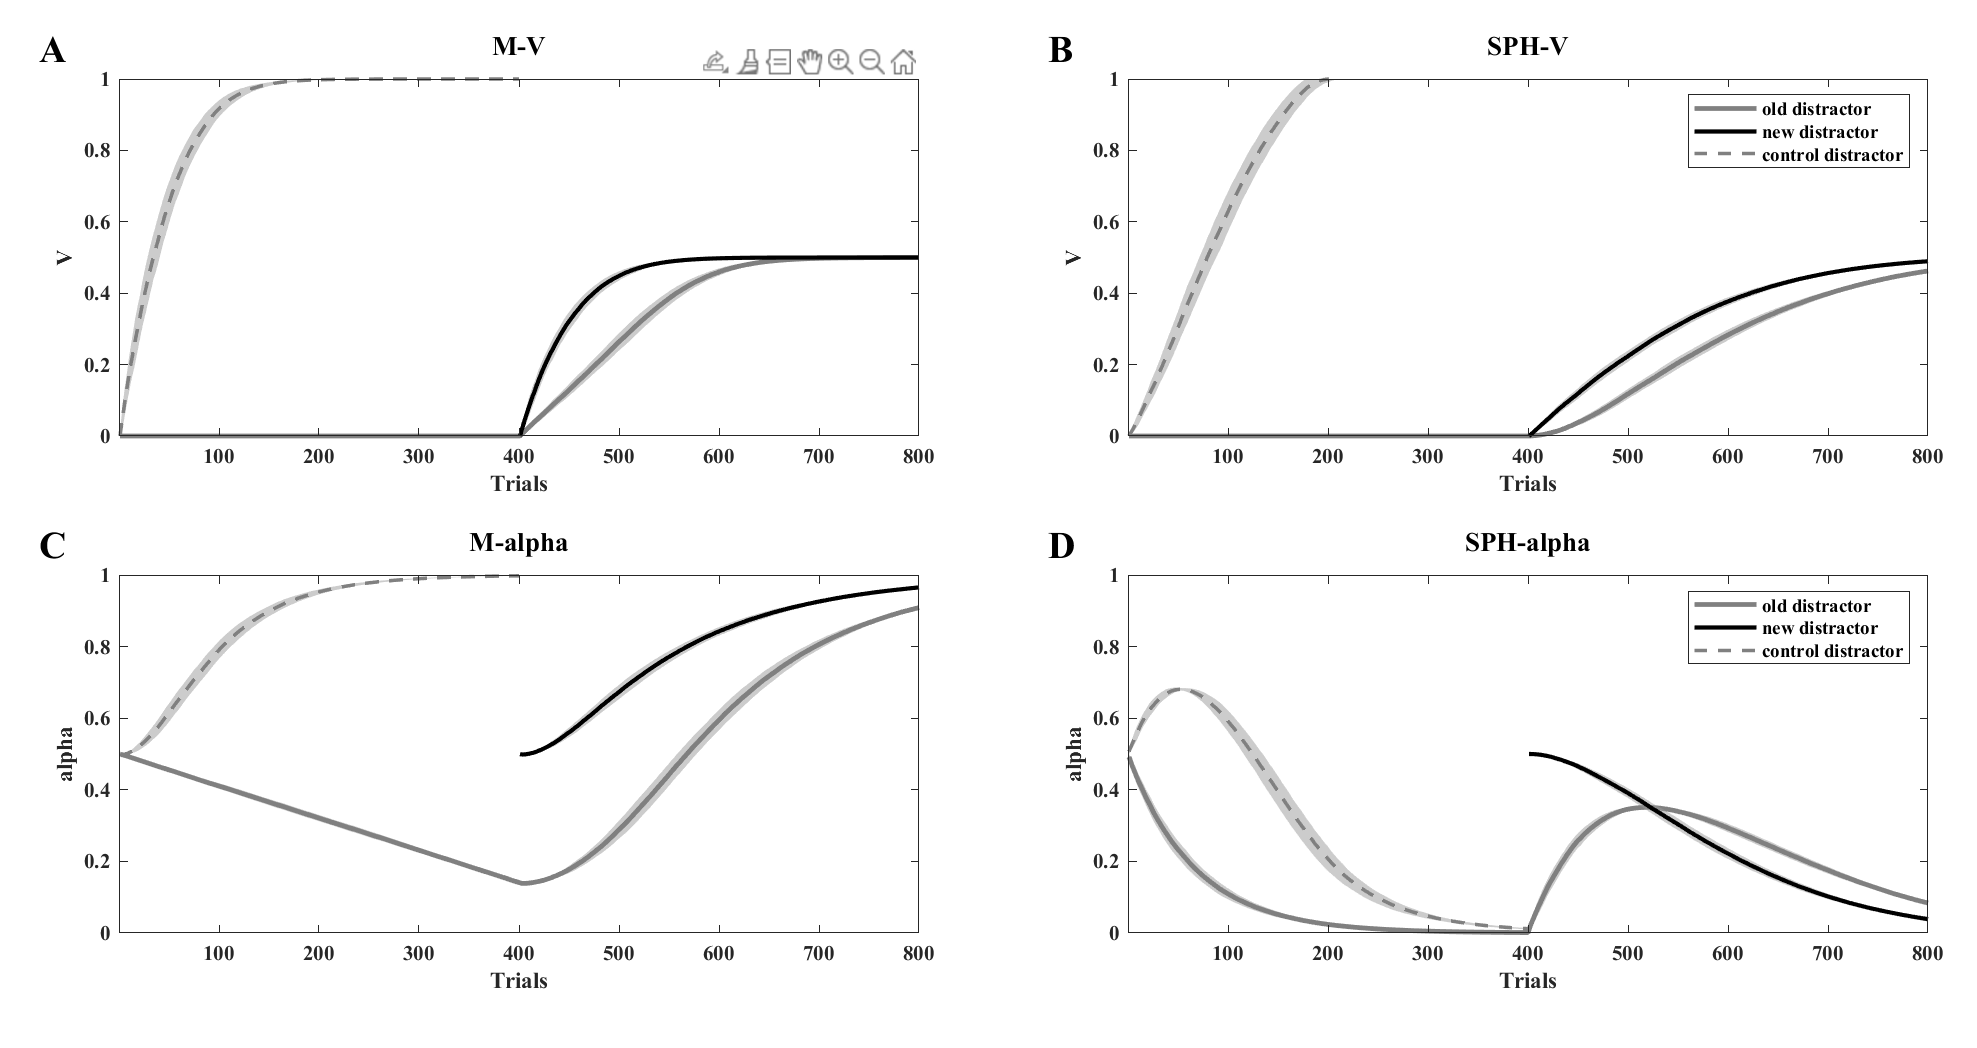
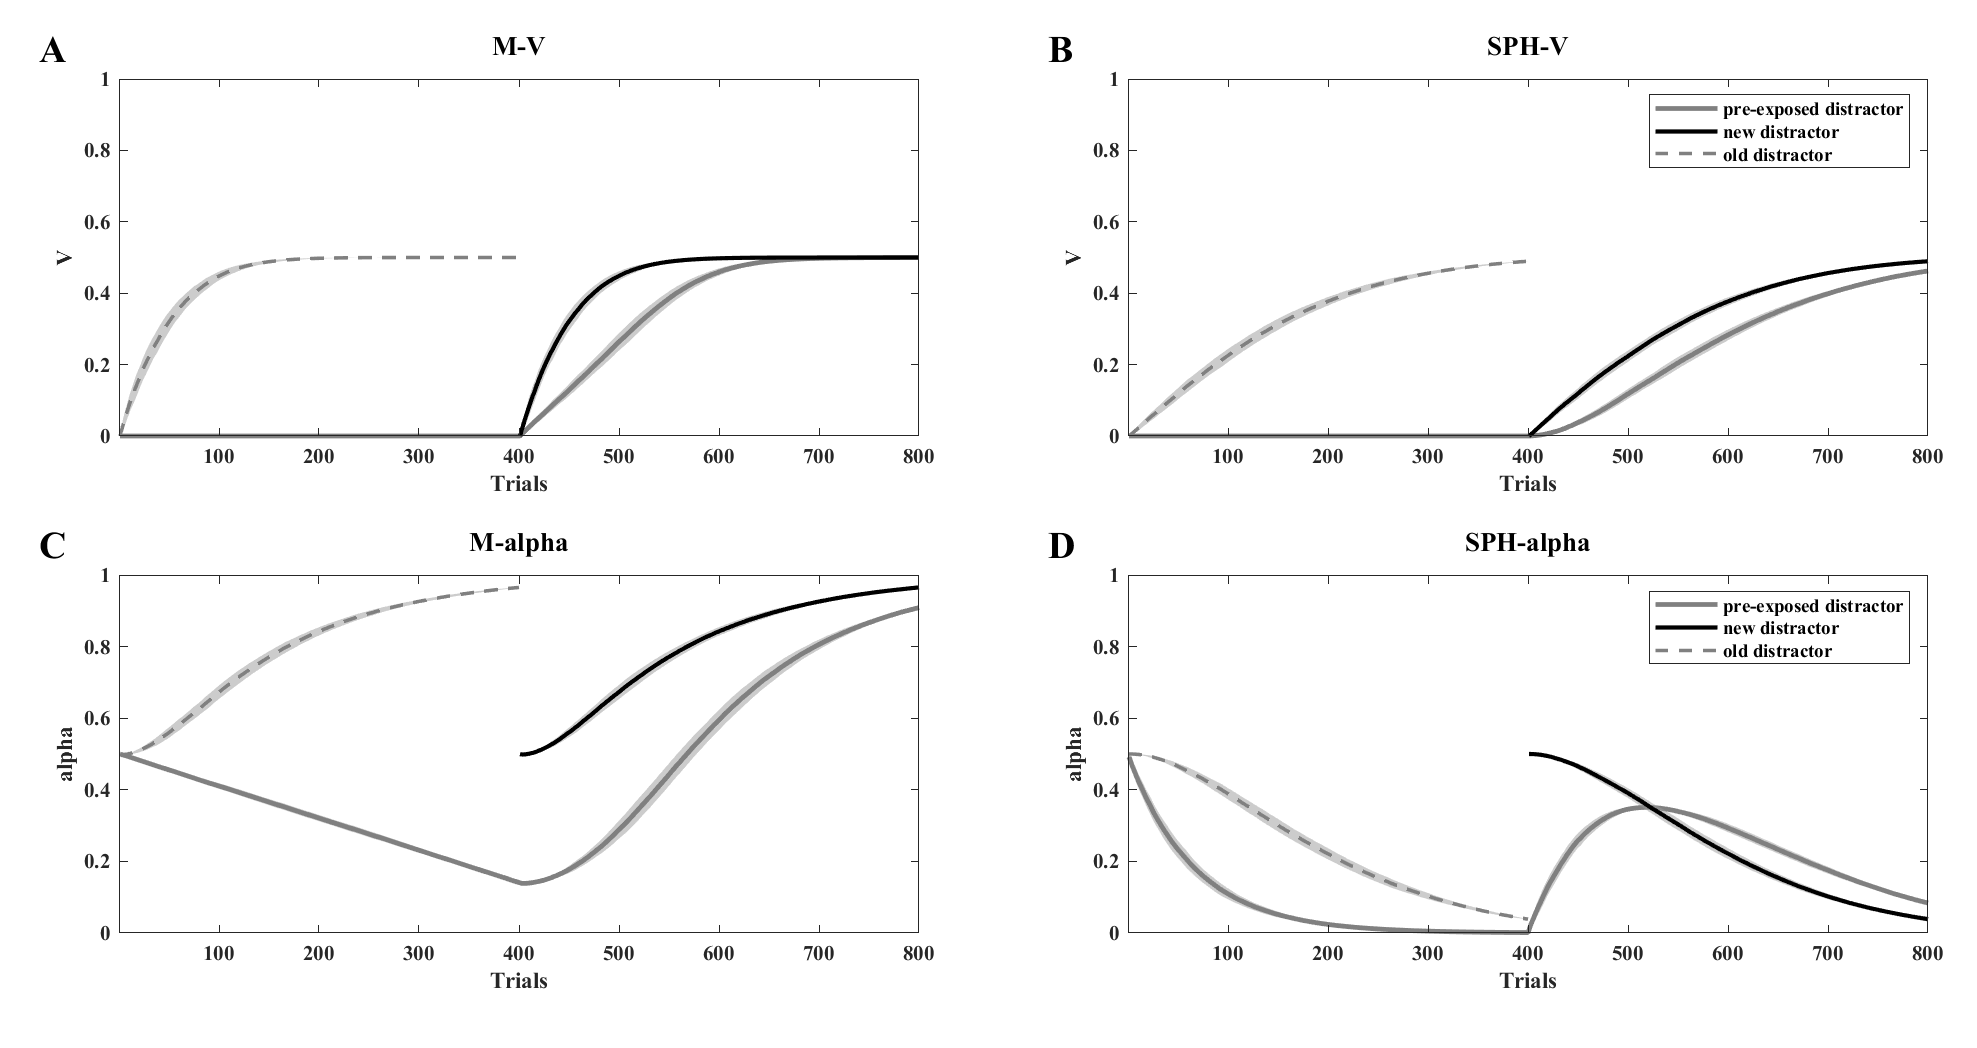
LI experiment change

diff --git a/VDAC/Figures/Fig5.m b/VDAC/Figures/Fig5.m
@@ -5,6 +5,7 @@
 %% Parameters
 rng(0);
 addpath('../../helper_function');
+addpath('../../');
 
 %% Experiment Schedule
 % +--------+--------+--------+--------+---------------------------+
@@ -13,13 +14,13 @@ addpath('../../helper_function');
 % | 1 or 0 | 1 or 0 | 1 or 0 | 1 or 0 | float                     |
 % +--------+--------+--------+--------+---------------------------+
 % There are three stimulus types and two phases in the hypothetical experiment.
-% Phase 1 : A-      C+(1.0)
+% Phase 1 : A-      C+(0.5)
 % Phase 2 : A+(0.5) B+(0.5)
 % The simplest design for the latent inhibition is A- -> A+ & B+, and the expected result is 
 % higher value to the B compared to the A. 
 % However, I included an other stimulus, C, in the first phase to eliminate a criticism, that 
 % the no-rewarding phase directly effect the behavior performance. 
-% In this new design, the expected result is C >> B > A.
+% In this new design, the expected result is C == B > A.
 
 high_reward = 1; 
 low_reward = 0.5;
@@ -28,7 +29,7 @@ no_reward = 0;
 schedule = struct();
 schedule.schedule{1} = repmat([...
     [1,0,0,0,no_reward];...
-    [0,0,1,1,high_reward];...
+    [0,0,1,1,low_reward];...
     ],200,1); % 2 trials x 200 blocks
 schedule.schedule{2} = repmat([...
     [1,0,0,1,low_reward];...
@@ -41,7 +42,7 @@ num_repeat = 200;
 
 CC.old = [0.5,0.5,0.5]; % CS1 which was presented from the beginning
 CC.new = [0,0,0]; % CS2 which was presented from the second phase
-CC.high = [0.5, 0.5, 0.5]; % CS 3 which was paired with lambda = 1
+CC.high = [0.5, 0.5, 0.5]; % CS 3 which was paired with lambda = 0.5
 
 %% Load Parameters
 [param, opt_option] = getDefaultParam();
@@ -156,7 +157,7 @@ yticks(0:0.2:1);
 ylim([0,1]);
 xlabel('Trials');
 ylabel('V');
-legend([plot_1{1}, plot_2{1}, plot_3{1}], {'old distractor', 'new distractor', 'control distractor'});
+legend([plot_1{1}, plot_2{1}, plot_3{1}], {'pre-exposed distractor', 'new distractor', 'old distractor'});
 
 % Texts
 t = title('SPH-V');
@@ -177,7 +178,7 @@ yticks(0:0.2:1);
 ylim([0,1]);
 xlabel('Trials');
 ylabel('alpha');
-legend([plot_1{1}, plot_2{1}, plot_3{1}], {'old distractor', 'new distractor', 'control distractor'});
+legend([plot_1{1}, plot_2{1}, plot_3{1}], {'pre-exposed distractor', 'new distractor', 'old distractor'});
     
 % Texts
 t = title('SPH-alpha');

diff --git a/VDAC/LatentInhibition/LatentInhibition.m b/VDAC/LatentInhibition/LatentInhibition.m
@@ -14,13 +14,13 @@ addpath('../../');
 % | 1 or 0 | 1 or 0 | 1 or 0 | 1 or 0 | float                     |
 % +--------+--------+--------+--------+---------------------------+
 % There are three stimulus types and two phases in the hypothetical experiment.
-% Phase 1 : A-      C+(1.0)
+% Phase 1 : A-      C+(0.5)
 % Phase 2 : A+(0.5) B+(0.5)
 % The simplest design for the latent inhibition is A- -> A+ & B+, and the expected result is 
 % higher value to the B compared to the A. 
 % However, I included an other stimulus, C, in the first phase to eliminate a criticism, that 
 % the no-rewarding phase directly effect the behavior performance. 
-% In this new design, the expected result is C >> B > A.
+% In this new design, the expected result is C = B > A.
 
 high_reward = 1; 
 low_reward = 0.5;
@@ -29,7 +29,7 @@ no_reward = 0;
 schedule = struct();
 schedule.schedule{1} = repmat([...
     [1,0,0,0,no_reward];...
-    [0,0,1,1,high_reward];...
+    [0,0,1,1,low_reward];...
     ],200,1); % 2 trials x 200 blocks
 schedule.schedule{2} = repmat([...
     [1,0,0,1,low_reward];...
@@ -42,7 +42,7 @@ num_repeat = 200;
 
 CC.old = [231,124,141]./255; % CS1 which was presented from the beginning
 CC.new = [94,165,197]./255; % CS2 which was presented from the second phase
-CC.high = [20,165,40]./255; % CS 3 which was paired with lambda = 1
+CC.high = [20,165,40]./255; % CS 3 which was paired with lambda = 0.5
 
 %% Load Parameters
 [param, opt_option] = getDefaultParam();
